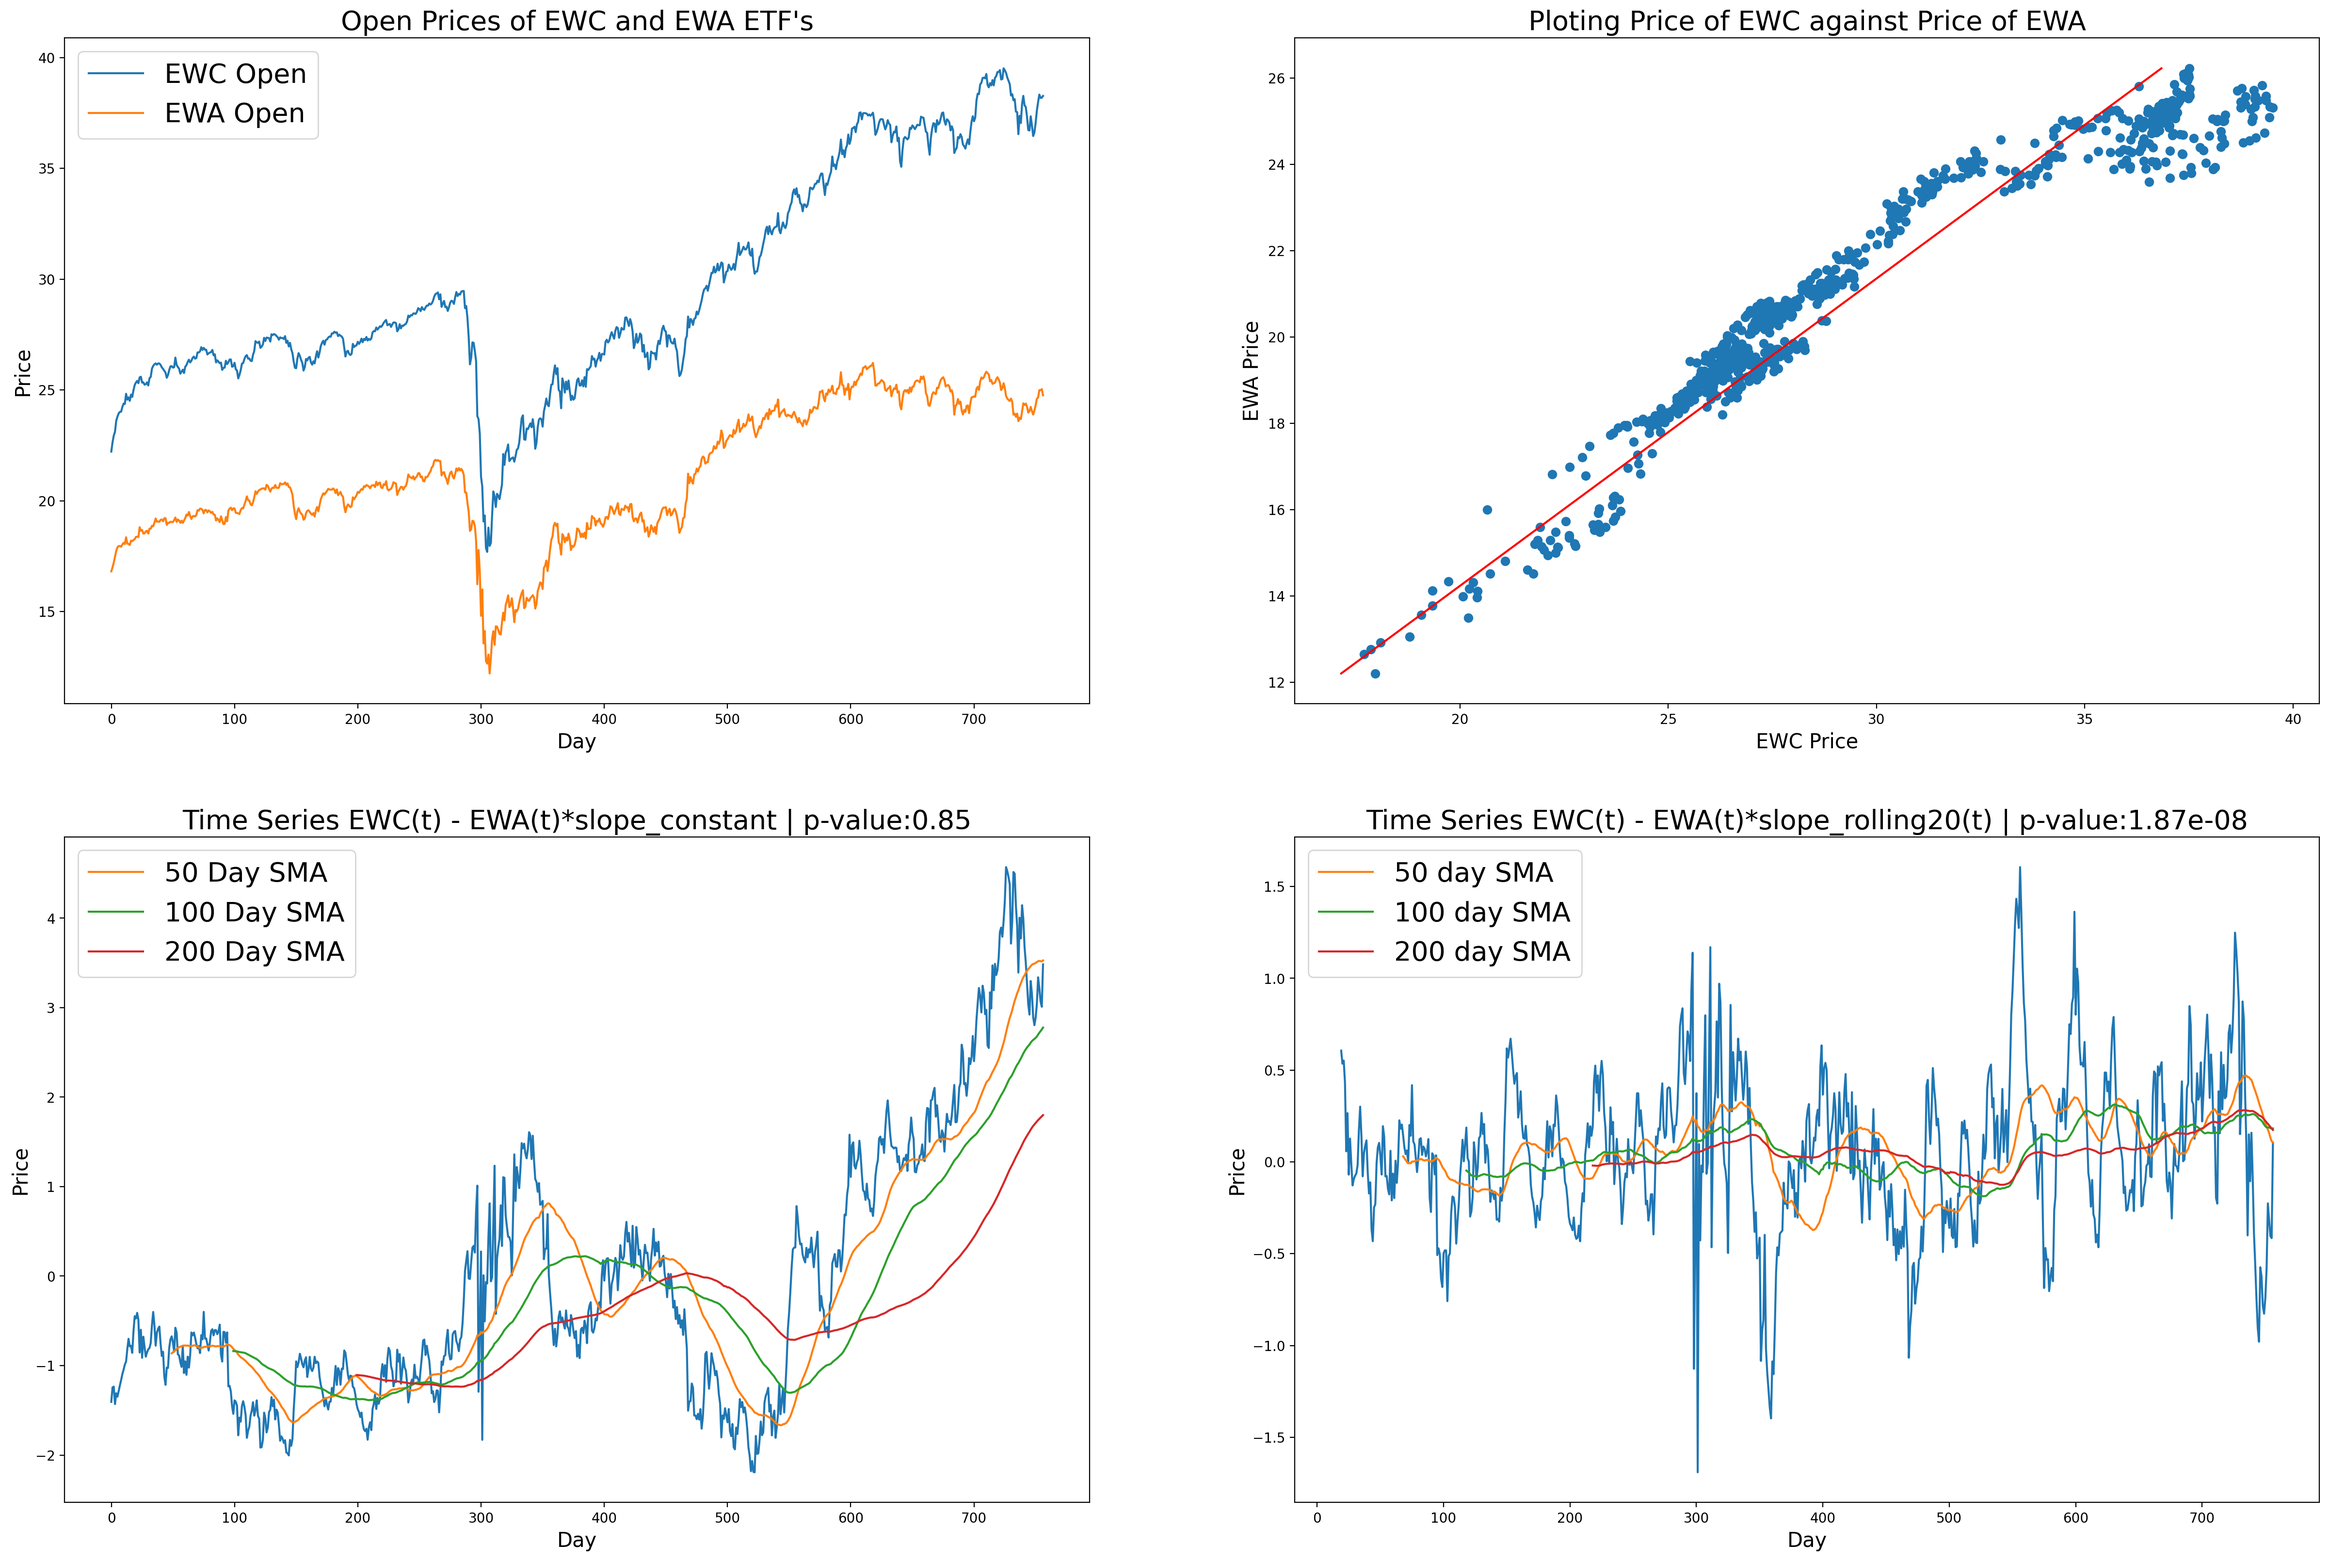
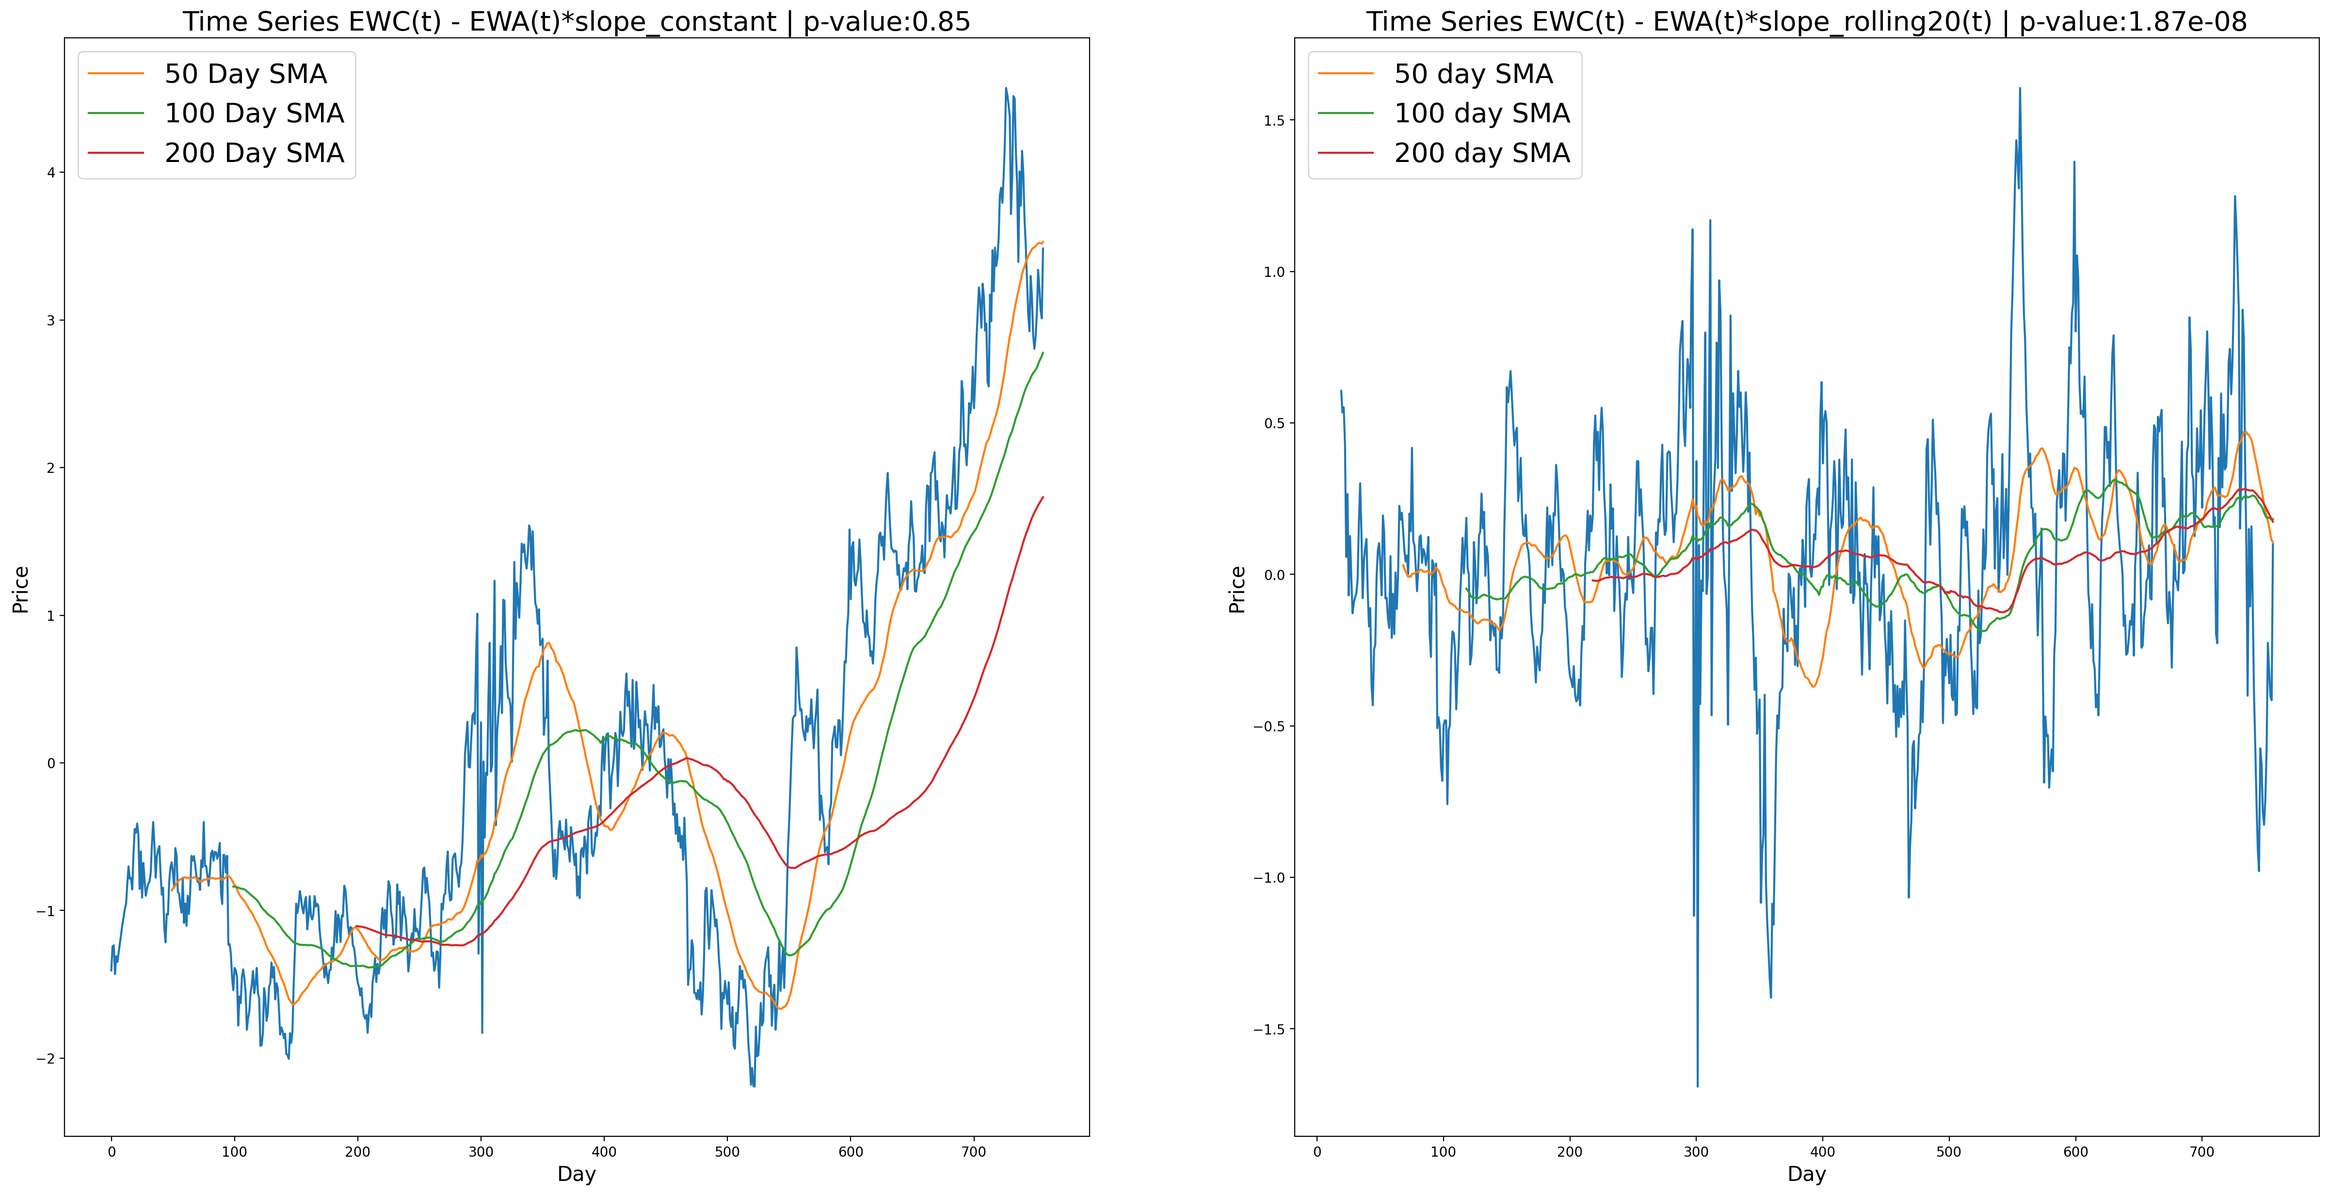
new graphs and readme updates

diff --git a/README.md b/README.md
@@ -226,7 +226,16 @@ And therefore
 
 Now the idea here is that since our price values for EWA and EWC oscilate around the regression line EWA = slope*EWC, the value of the series EWA - slope*EWC should oscilate around 0. Essentially generating a mean revering time series. 
 
+<br>
+<br>
+But you might have noticed something important. Our regression line really is not that good. You can see period where many datapoints are concentrated above the line, and other regions where they are clusterd below the line. This issue wil be reflected in our resulting "stationary" time series.
+
 ## Linear Regression with Moving Window
+So the notion of a OLS Regression generating a constant hedge ratio was just a precursor to disucssing the Rolling window Linear Regression(which will actually yeild some decent results). The idea here is to treat the slope as a variable rather than a constant. Recall how I stated there are period where many values are above(or below) the line of best fit, and since the this regression line is fitted on ALL of the data it cannot account for regime shifts in the market and can quickly become outdated. Therefore, it makes logical sense to update out linear regression every so often. Then is pretty much was a rolling window OLS is. We are running a regression on a section of the data each time.
+
+![Rolling Regression & Linear Regression Comparison](./images/Linear%20Regession%20Hedge%20Ratio%20Example.png)
+
+
 
 
 
